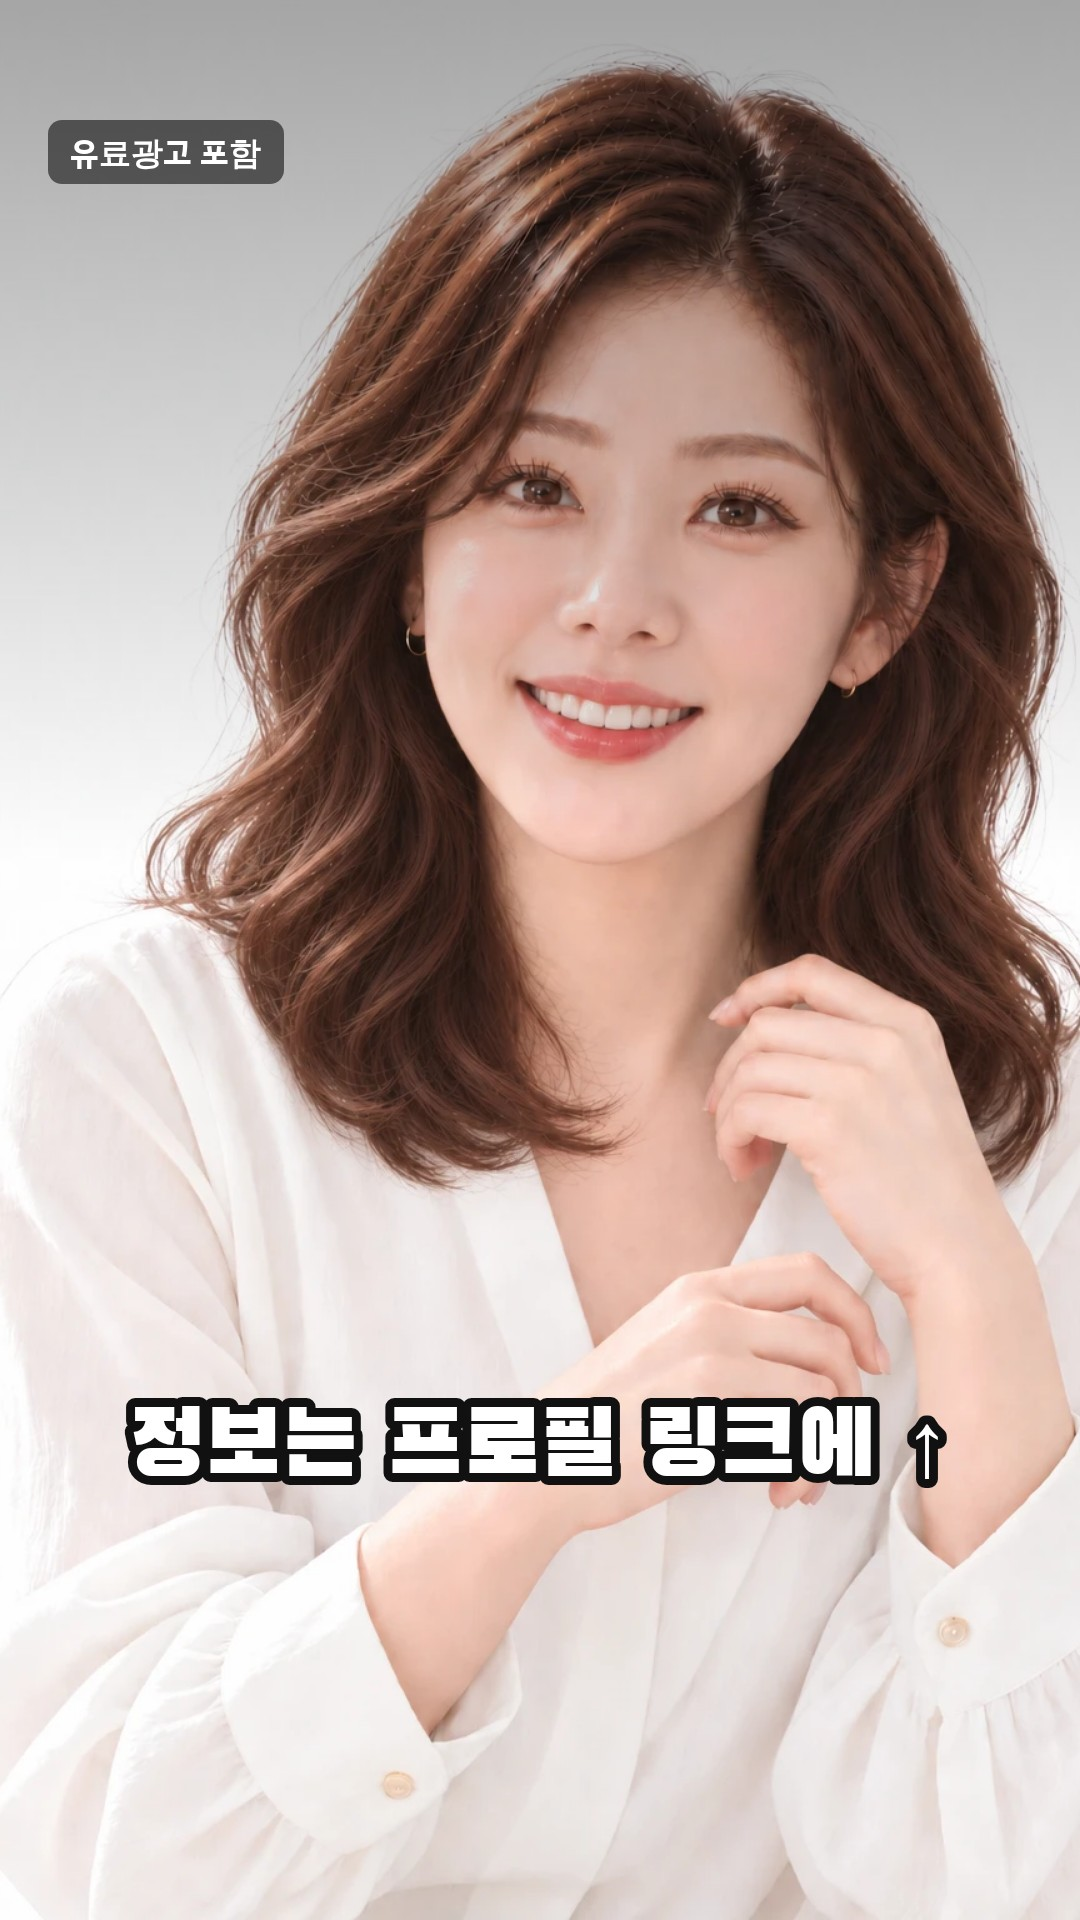
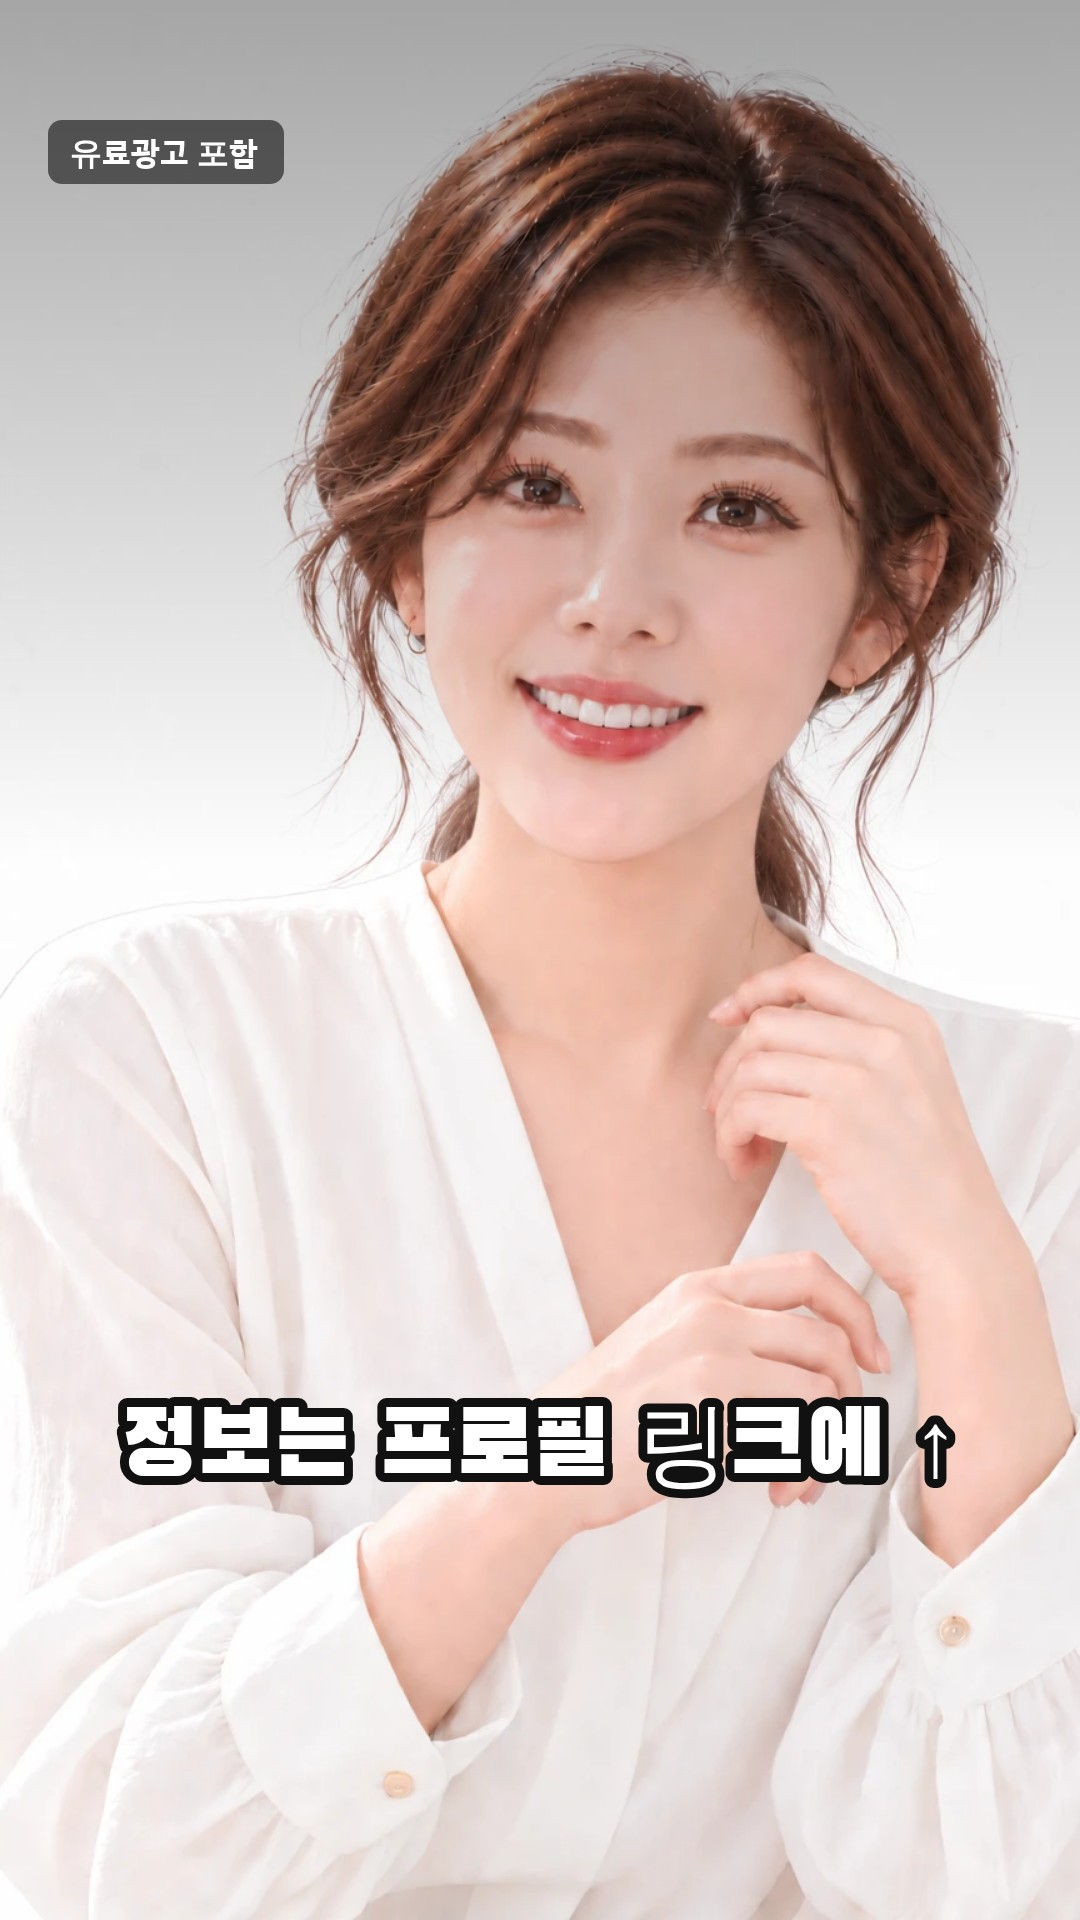
Use tied-hair smiling photo on closing scenes A6/C4
Claude-Session: https://claude.ai/code/session_01G7A9XvmaDKVefmK26e1iGa

diff --git a/docs/beauty-shorts/photos/README.md b/docs/beauty-shorts/photos/README.md
@@ -32,7 +32,8 @@ job ID 목록은 `jobs.json` 참고.
 | `reference/ref_bare.webp` | 생얼 |
 | `reference/ref_makeup_1.webp` | 메이크업 1 |
 | `reference/ref_makeup_2.webp` | 메이크업 2 |
-| `reference/ref_makeup_smile.webp` | 메이크업, 웃는 얼굴 |
+| `reference/ref_makeup_smile.webp` | 메이크업, 웃는 얼굴 (풀어 내린 머리) |
+| `reference/ref_makeup_smile_tied.webp` | 메이크업, 웃는 얼굴 (묶은 머리) — A6·C4에 사용 |
 
 적용: A안 4번(세안 후 세럼, 생얼)·5번(화장 밀착, 메이크업)·6번(마무리, 웃는 메이크업), C안 1번(DAY 1, 생얼)·4번(마무리, 웃는 메이크업). 합성 결과는 `examples/photo_*.jpg`, `examples/storyboard_A_photo.jpg`, `storyboard_C_photo.jpg`.
 
